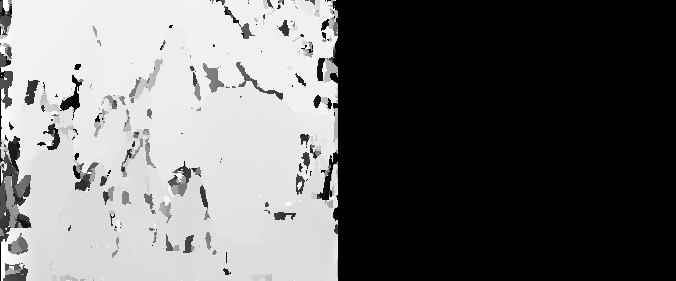
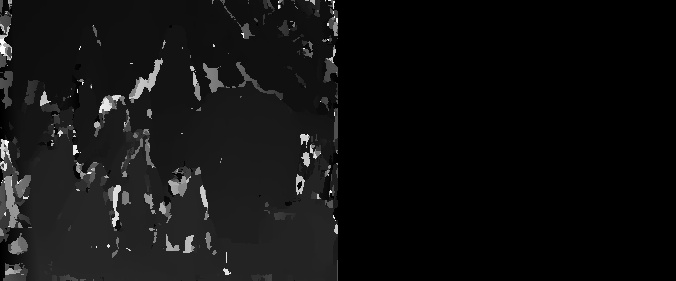
temp

diff --git a/inc/stereoVisionFunc.hpp b/inc/stereoVisionFunc.hpp
@@ -53,6 +53,35 @@ class StereoVision {
             return img1_with_points;
         }
 
+        // function to take two images and corresponding feature points as input and return the best fundamental matrix
+        vector<pair<Point, Point>> bestFundamentalMatrix(vector<pair<Point, Point>> correspondingPoints, Mat& BestFundamentalMatrix) {
+            cout<<">>> bestFundamentalMatrix() called"<<endl;
+            // create 2 vectors to store the corresponding points in each image
+            vector<Point> points1, points2;
+            // push the corresponding points into the vectors
+            for (int i = 0; i < correspondingPoints.size(); i++) {
+                points1.push_back(correspondingPoints[i].first);
+                points2.push_back(correspondingPoints[i].second);
+            }
+            // find the best fundamental matrix using cv::findFundamentalMat() function and ransac
+            Mat inliers_mask;
+            BestFundamentalMatrix = findFundamentalMat(points1, points2, FM_RANSAC, 3, 0.99, inliers_mask);
+            // create a vector of pairs of points to store the best inliers correspondences
+            vector<pair<Point, Point>> bestInliersCorrespondences;
+            std::vector<Point2f> inliers1, inliers2;
+            for (int i = 0; i < inliers_mask.rows; ++i) {
+                if (inliers_mask.at<uint8_t>(i)) {
+                    pair<Point, Point> bestInliersCorrespondence;
+                    bestInliersCorrespondence.first = points1[i];
+                    bestInliersCorrespondence.second = points2[i];
+                    bestInliersCorrespondences.push_back(bestInliersCorrespondence);
+                }
+            }
+            // return the best fundamental matrix
+            cout<<"<<< bestFundamentalMatrix() returned"<<endl;
+            return bestInliersCorrespondences;
+        }
+
         // function to take eight corresponding points as input and return the estimated fundamental matrix
         Mat estimateFundamentalMatrix(vector<Point> points1, vector<Point> points2) {
             cout<<">>> estimateFundamentalMatrix() called"<<endl;
@@ -82,7 +111,7 @@ class StereoVision {
                 A.at<double>(i, 8) = 1;
             }
             // find the SVD of A
-            SVD svd(A.t() * A);
+            SVD svd(A);
             // get the last column of V
             Mat V = svd.vt;
             // reshape the last column of V into a 3x3 matrix
@@ -163,7 +192,7 @@ class StereoVision {
         Mat computeDisparityMap(Mat img1, Mat img2, Mat bestFundamentalMatrix) {
             cout<<">>> computeDisparityMap() called"<<endl;
             // create a Mat object to store the disparity map and initialize it to zero with size of img1.cols + img2.cols and img1.rows
-            Mat disparityMap = Mat::zeros(img1.rows, img1.cols + img2.cols, CV_8UC1);
+            Mat disparityMap = Mat::ones(img1.rows, img1.cols + img2.cols, CV_8UC1);
             int epipolarLineWindowSize = 10;
             Mat img1_gray, img2_gray;
             // convert the images to grayscale
@@ -194,11 +223,13 @@ class StereoVision {
                     // store the disparity in the disparity map
                     // debug by printing the disparity
                     cout<<"Disparity: "<<disparity<<endl;
-                    disparityMap.at<uchar>(i, j) = disparity;
-                    // normalize the disparity map to the range 0-255
-                    normalize(disparityMap, disparityMap, 0, 255, NORM_MINMAX);
+                    disparityMap.at<uchar>(i, j) -= abs(disparity);
                 }
             }
+            // normalize the disparity map to the range 0-255
+            normalize(disparityMap, disparityMap, 0, 255, NORM_MINMAX);
+            // debug by printing the disparity map
+            cout<<"Disparity map: "<<disparityMap<<endl;
             // return the disparity map
             cout<<"<<< computeDisparityMap() returned"<<endl;
             return disparityMap;

diff --git a/src/main.cpp b/src/main.cpp
@@ -30,7 +30,8 @@ int main(int argc, char** argv) {
     // best fundamental matrix
     Mat bestFundamentalMatrix;
     // estimate the best correspondences
-    vector<pair<Point, Point>> bestCorrespondances = stereoVision.bestCorrespondences(correspondances, bestFundamentalMatrix);
+    // vector<pair<Point, Point>> bestCorrespondances = stereoVision.bestCorrespondences(correspondances, bestFundamentalMatrix);
+    vector<pair<Point, Point>> bestCorrespondances = stereoVision.bestFundamentalMatrix(correspondances, bestFundamentalMatrix);
     // draw the correspondances between the feature points in the left and right images
     Mat correspondancesImage = cvFactory.draw_lines(stereoImages[0], stereoImages[1], bestCorrespondances);
     // draw feature points on the image
